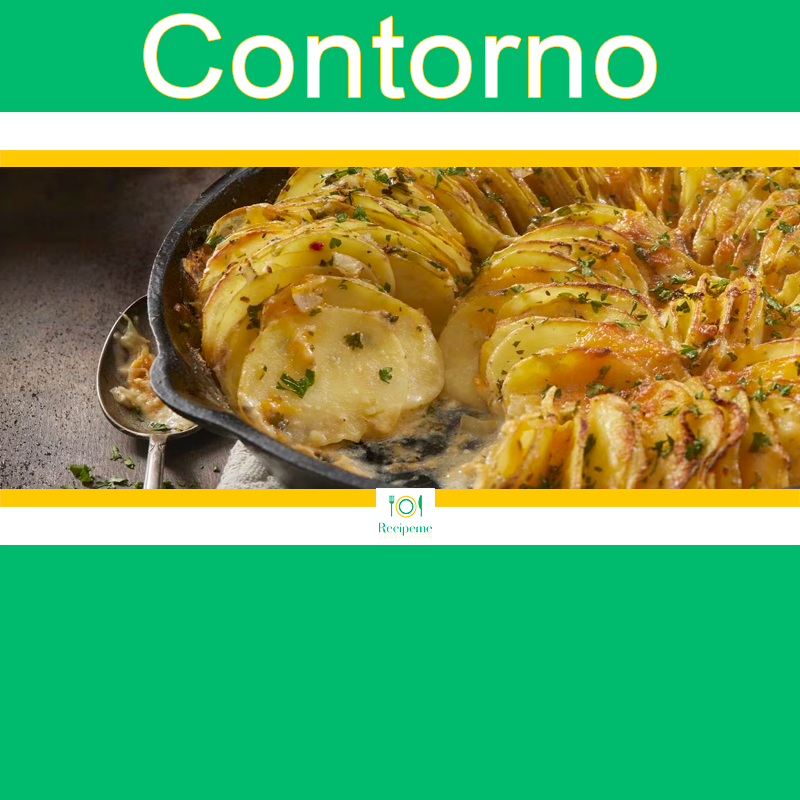
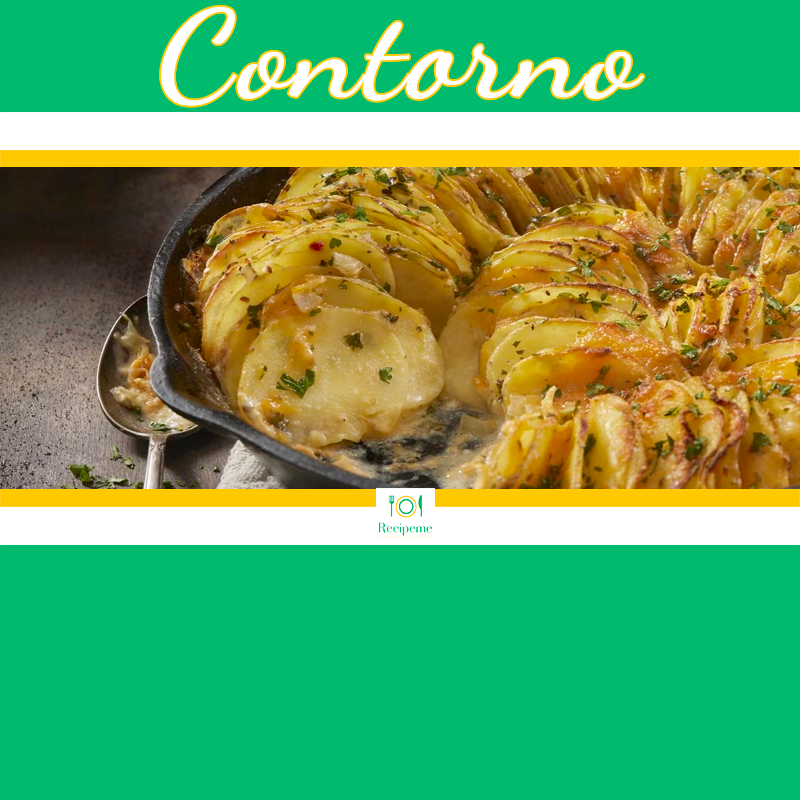
gfx update

Changed region(s): [[0.1562, 0.0, 0.8438, 0.1562]]

diff --git a/app/src/app/pages/homepage/result/result.component.html b/app/src/app/pages/homepage/result/result.component.html
@@ -3,12 +3,12 @@
   <a [routerLink]="['/homepage/detail',r.id]" *ngFor="let r of ricette"
     class="d-flex p-3 m-2 rounded-5 card-cont">
     <div class="rel">
-      <img class="imgCat" [src]="getImgByCategories(r.categoria)" alt="Immagine ricetta">
-      <span class="titolo">{{r.nome}}</span>
+      <img class="imgCat me-4" [src]="getImgByCategories(r.categoria)" alt="Immagine ricetta">
+      <span class="titolo nome-img-res">{{r.nome}}</span>
     </div>
 
     <div class="row px-3 py-2">
-      <h4 class="col-12 fw-bold">{{r.nome}}</h4>
+      <h4 class="col-12 fw-bold fs-2 m-fix">{{r.nome}}</h4>
       <p class="d-none d-md-block col-12">{{r.preparazione}}</p>
       <div><i class="bi bi-bookmark type-icon me-1 fw-bold"></i><span class="me-1 fst-italic">{{r.categoria}}</span> |<i class="bi bi-person ms-2 ppl-icon fw-bold ms-1"></i><span class="ms-1 fst-italic">{{r.persone}}</span></div>
     </div>

diff --git a/app/src/app/pages/homepage/detail/detail.component.html b/app/src/app/pages/homepage/detail/detail.component.html
@@ -3,8 +3,8 @@
 
   <!-- Portfolio Item Heading -->
   <div>
-    <h2 class="my-4">{{ ricetta.nome }}</h2>
-    <ul>
+    <h2 class="my-4 fw-bold pt-4">{{ ricetta.nome }}</h2>
+    <ul class="mb-4">
       <li><i class="bi bi-bookmark"></i> Categoria: {{ ricetta.categoria }}</li>
       <li><i class="bi bi-person"></i> Persone: {{ ricetta.persone }}</li>
     </ul>
@@ -13,10 +13,10 @@
   <div class="row">
 
     <div class="col-md-8">
-      <img class="imgCategoria" [src]="getImgByCategories(ricetta.categoria)" alt="Immagine ricetta">
+      <img class="imgCategoria img-fluid rounded-5" [src]="getImgByCategories(ricetta.categoria)" alt="Immagine ricetta">
     </div>
 
-    <div class="col-md-4">
+    <div class="col-md-4 res-page-text">
       <h3 class="my-3">Preparazione</h3>
       <p>{{ ricetta.preparazione }}</p>
       <h3 class="my-3">Ingredienti</h3>

diff --git a/app/src/app/pages/homepage/detail/detail.component.scss b/app/src/app/pages/homepage/detail/detail.component.scss
@@ -1,4 +1,39 @@
 .imgCategoria{
-  width: 800px;
-  height: 700px;
+  width: 700px;
+  height: 550px;
+}
+
+.res-page-text{
+
+  margin-left: -100px;
+
+}
+
+@media screen and (max-width:768px){
+
+  .imgCategoria{
+    width: 750px;
+    height: 500px;
+  }
+
+}
+
+@media screen and (max-width:1024px){
+
+  .res-page-text{
+
+    margin-left: 0px;
+
+  }
+
+}
+
+@media screen and (max-width:1400px){
+
+  .res-page-text{
+
+    margin-left: 0px;
+
+  }
+
 }

diff --git a/app/src/styles.scss b/app/src/styles.scss
@@ -3,9 +3,16 @@
 /* Importing Bootstrap SCSS file. */
 @import 'bootstrap/scss/bootstrap';
 @import url('https://fonts.googleapis.com/css2?family=Roboto:wght@400;700&display=swap');
+@import url('https://fonts.googleapis.com/css2?family=Dancing+Script:wght@400;500;700&display=swap');
 
 *{
   font-family: 'Roboto', sans-serif;
+}
+
+h2,h3,h4, .nome-img-res{
+
+  font-family: 'Dancing Script', cursive;
+
 }
 
 :root {

diff --git a/app/src/app/pages/homepage/result/result.component.scss b/app/src/app/pages/homepage/result/result.component.scss
@@ -69,4 +69,10 @@ a{
 
 }
 
+.m-fix{
+
+  margin-bottom: -45px;
+
+}
+
 // &amp;
